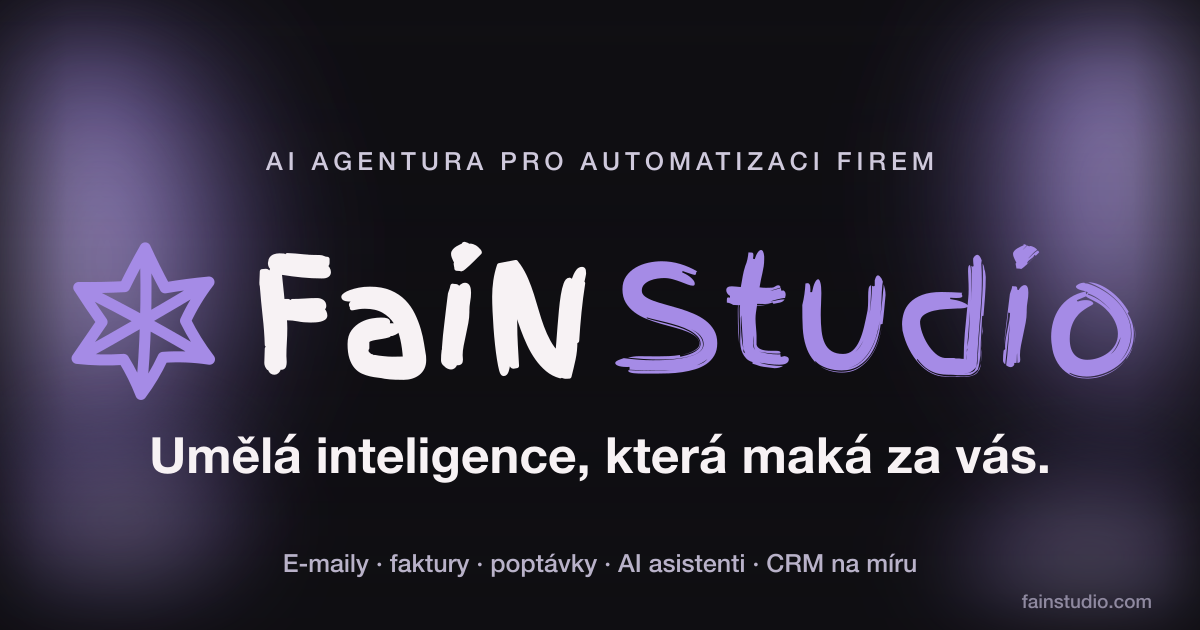
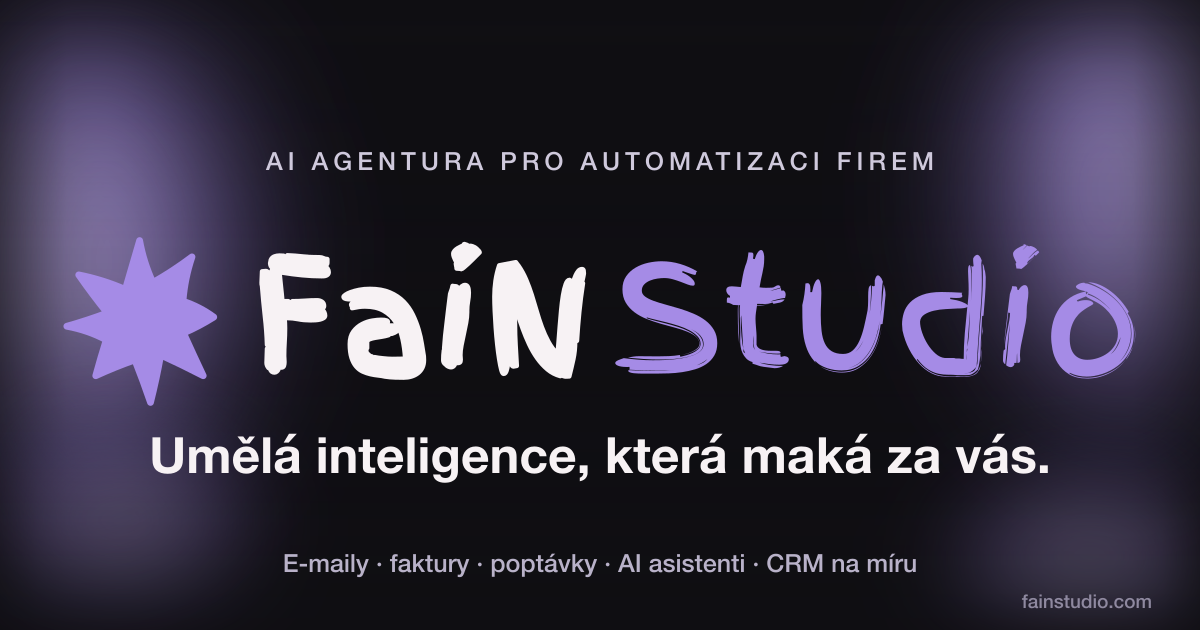
Brand star: filled doodle eight-pointed star instead of the outlined six-pointed one

Changed region(s): [[0.0308, 0.3619, 0.185, 0.6333]]

diff --git a/components/ColorStudio.tsx b/components/ColorStudio.tsx
@@ -11,7 +11,7 @@ import { STAR_D } from '@/lib/star';
  *  • klasický výběr: čtverec sytost × jas + pruh odstínu + pole pro hex
  *  • každá barva se přepočítá na OKLCH (--primary-h/c/l-adj atd.) a drží se v localStorage
  *    (layout.tsx ji obnoví před prvním vykreslením), jen v tomhle prohlížeči
- *  • favicon (kreslená hvězdička) sleduje primární barvu
+ *  • favicon (kreslená osmicípá hvězdička) sleduje primární barvu
  *  • klávesy: C = panel, R = náhodná primární, Esc = zavřít
  *  • „Kopírovat CSS“ dá hodnoty, které se pak vloží do app/globals.css
  */
@@ -80,9 +80,9 @@ function normHex(v: string) {
 }
 
 
-/** Favicon: kreslená hvězdička v aktuální primární barvě (přepíše odkaz na ikonu). */
+/** Favicon: kreslená osmicípá hvězdička v aktuální primární barvě (přepíše odkaz na ikonu). */
 function updateFavicon(hex: string) {
-  const svg = `<svg xmlns="http://www.w3.org/2000/svg" viewBox="0 0 100 100"><rect width="100" height="100" rx="22" fill="#0f0e12"/><g transform="translate(13 13) scale(.74)"><path d="${STAR_D}" fill="none" stroke="${hex}" stroke-width="9" stroke-linejoin="round" stroke-linecap="round"/></g></svg>`;
+  const svg = `<svg xmlns="http://www.w3.org/2000/svg" viewBox="0 0 100 100"><rect width="100" height="100" rx="22" fill="#0f0e12"/><g transform="translate(13 13) scale(.74)"><path d="${STAR_D}" fill="${hex}" stroke="${hex}" stroke-width="5" stroke-linejoin="round"/></g></svg>`;
   let link = document.getElementById('dyn-icon') as HTMLLinkElement | null;
   if (!link) {
     link = document.createElement('link');

diff --git a/lib/star.ts b/lib/star.ts
@@ -1,4 +1,5 @@
-/* Kreslená šestícípá hvězdička: značka FaiN Studia (navigace, favicon, sdílení). Obrys je záměrně lehce třesoucí se, jako tažený rukou; protější cípy jsou spojené přes střed, aby hvězda nevypadala jako hexagram. */
+/* Kreslená osmicípá hvězdička (doodle): značka FaiN Studia (navigace, favicon, sdílení). Vyplněná, s lehce nepravidelnými cípy a vlnitými hranami, jako rychle načrtnutá rukou.
+   STAR_STROKE je tah ve stejné barvě jako výplň, který cípy zakulatí. Předchozí varianta (obrys s paprsky) je v gitu, commit 69a3844. */
 export const STAR_D =
-  'M50.9 6.4 Q56.4 18.4 62.6 29.9 Q75.4 27.7 88.4 26.5 Q80.2 37.2 74.6 49.3 Q80.6 61.3 88.7 71.9 Q75.1 69.8 61.4 70.8 Q56.0 82.4 48.4 92.6 Q44.2 81.8 38.2 72.0 Q24.4 72.9 10.8 71.4 Q18.2 60.7 25.5 50.0 Q18.4 40.0 11.8 29.7 Q25.3 29.9 38.8 29.2 Q44.5 17.6 50.9 6.4Z M50.9 6.4 Q52.5 50 48.4 92.6 M88.4 26.5 Q48.5 50.5 10.8 71.4 M88.7 71.9 Q51.5 49.5 11.8 29.7';
-export const STAR_STROKE = 6;
+  'M47.6 2.1 Q49.9 14.9 55.4 26.8 Q67.4 20.0 78.4 11.7 Q74.1 24.4 73.1 37.8 Q82.9 41.0 91.2 47.1 Q82.7 52.5 73.4 56.5 Q79.1 69.1 85.0 81.6 Q72.6 75.2 60.0 69.4 Q57.5 83.5 54.0 97.3 Q49.7 84.7 44.8 72.3 Q33.1 76.4 21.8 81.6 Q24.7 71.0 28.0 60.5 Q17.0 54.7 4.8 52.5 Q16.9 49.1 28.6 44.7 Q19.8 33.8 11.8 22.3 Q25.9 25.1 39.2 30.9 Q43.4 16.5 47.6 2.1Z';
+export const STAR_STROKE = 4;

diff --git a/components/Star.tsx b/components/Star.tsx
@@ -1,10 +1,10 @@
 import { STAR_D, STAR_STROKE } from '@/lib/star';
 
-/* Kreslená šestícípá hvězdička (značka). Barva se bere z currentColor. */
+/* Kreslená osmicípá hvězdička (značka). Barva se bere z currentColor. */
 export default function Star({ className = '' }: { className?: string }) {
   return (
     <svg className={`star${className ? ` ${className}` : ''}`} viewBox="0 0 100 100" aria-hidden="true" focusable="false">
-      <path d={STAR_D} fill="none" stroke="currentColor" strokeWidth={STAR_STROKE} strokeLinejoin="round" strokeLinecap="round" />
+      <path d={STAR_D} fill="currentColor" stroke="currentColor" strokeWidth={STAR_STROKE} strokeLinejoin="round" />
     </svg>
   );
 }
